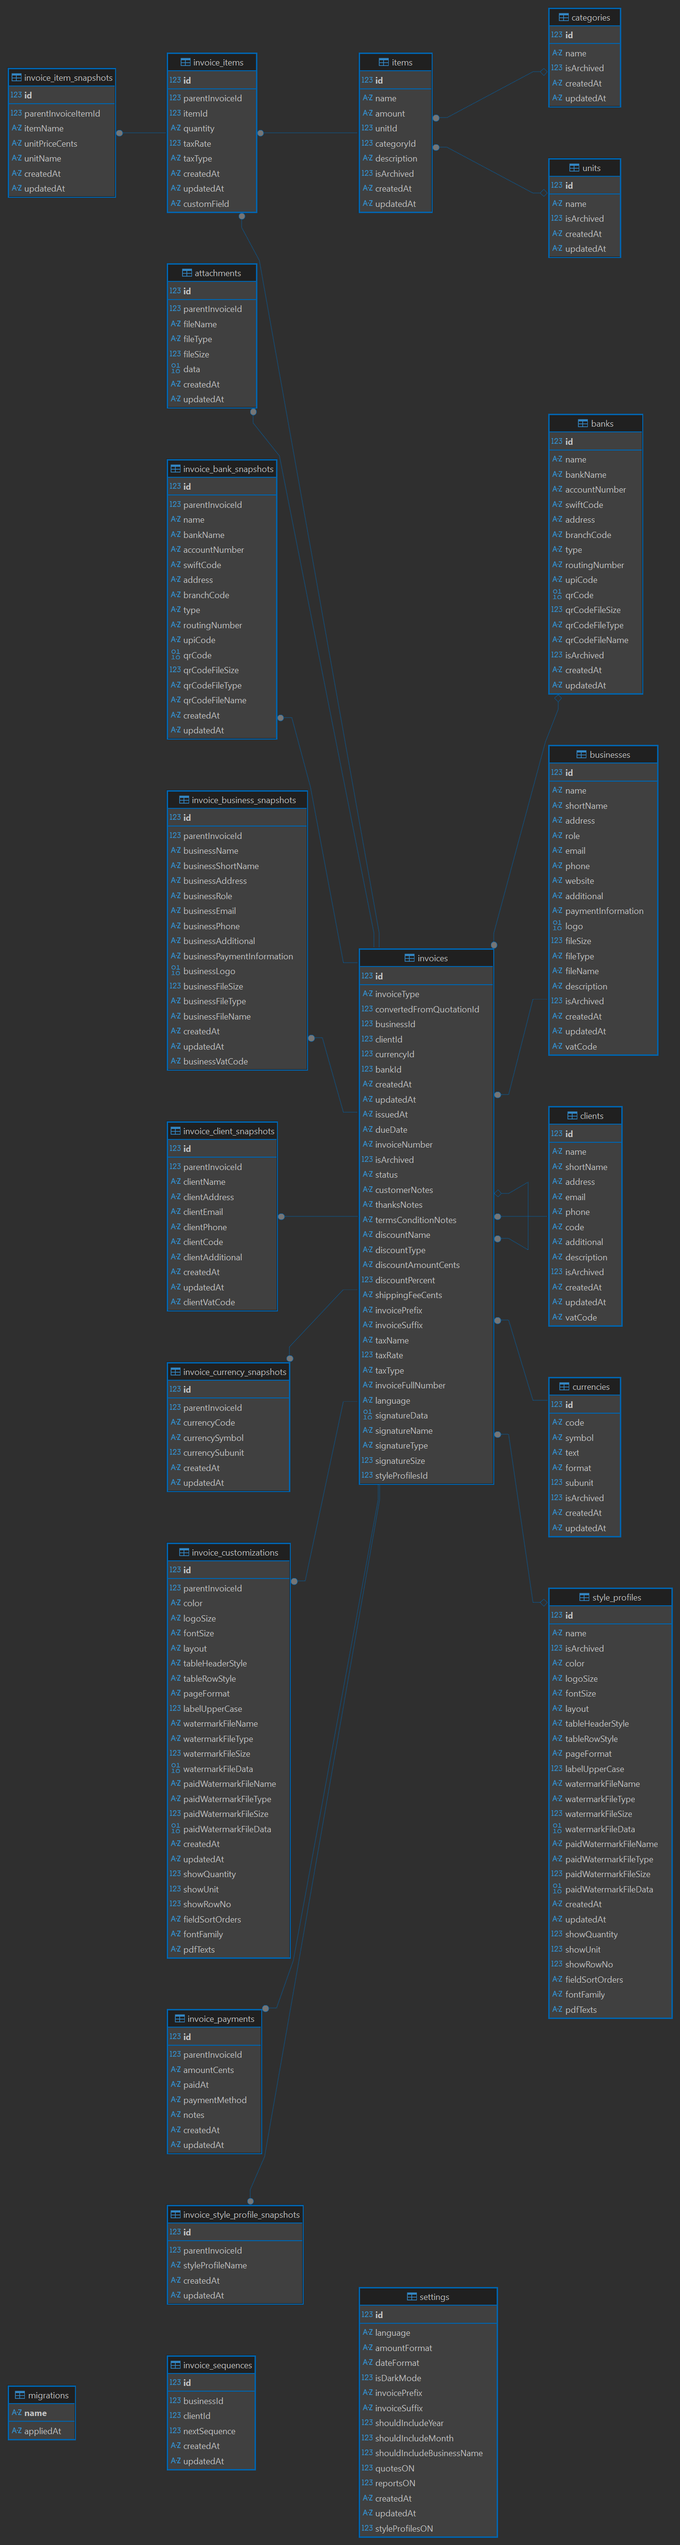
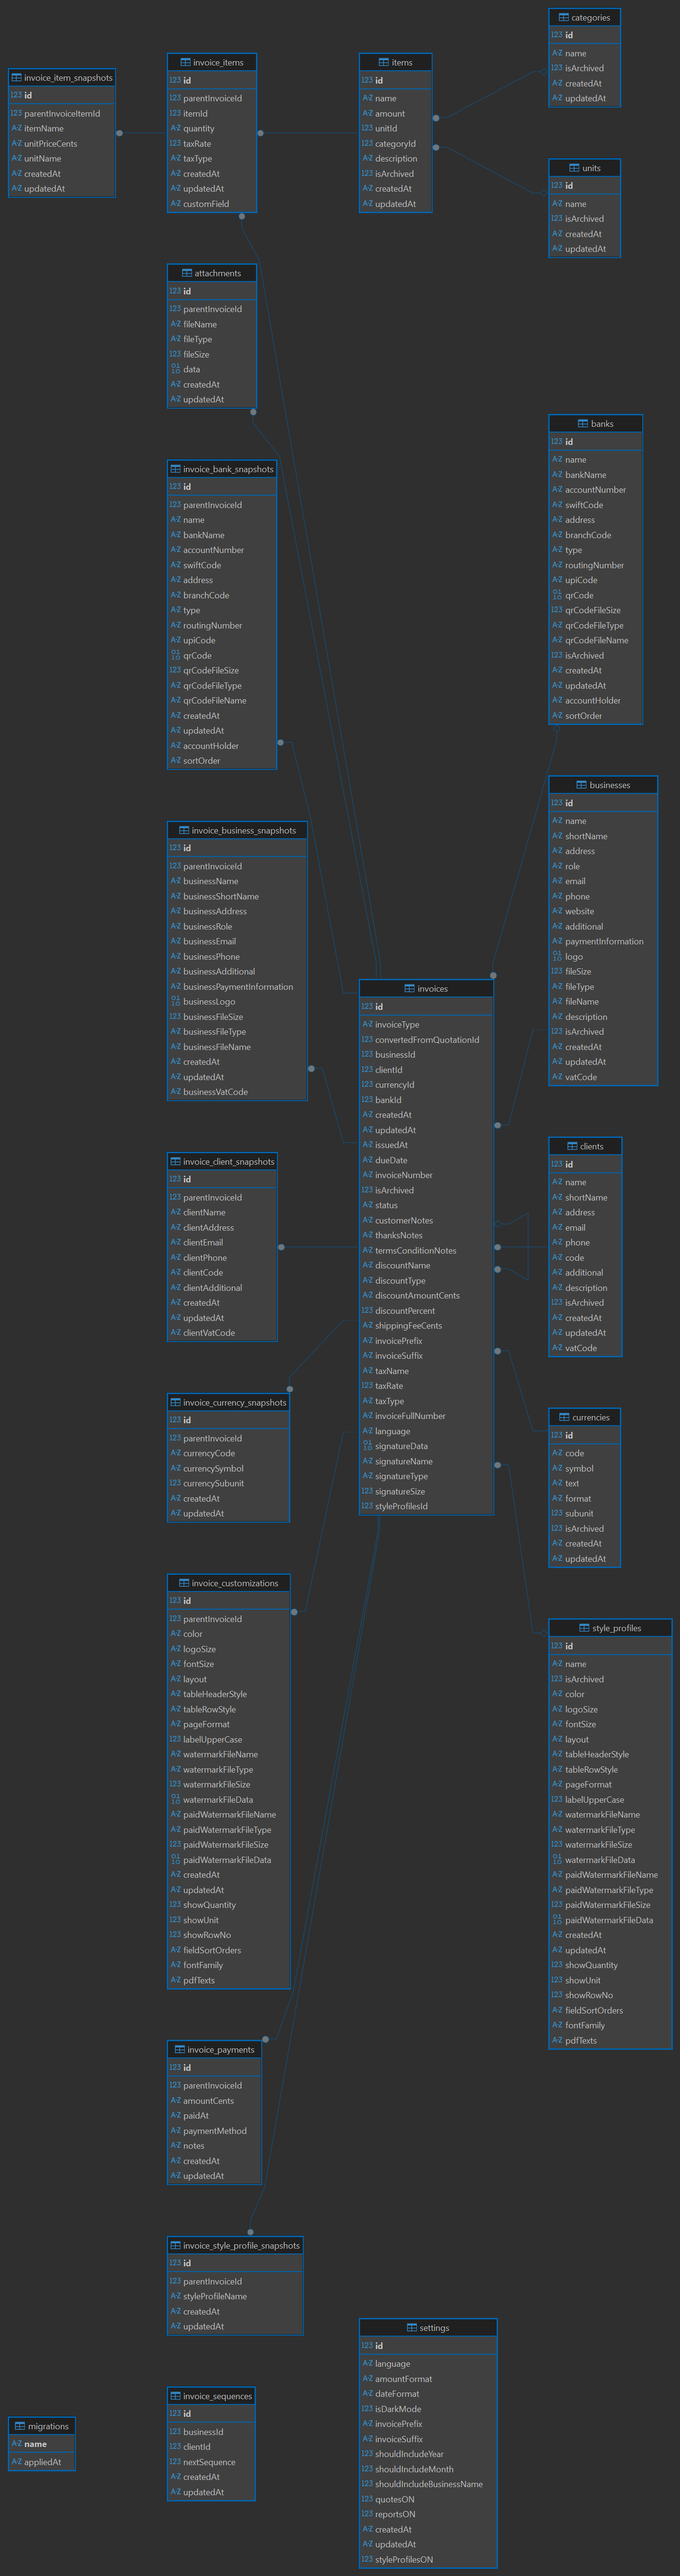
added new fields

diff --git a/src/renderer/pages/banks/Form.tsx b/src/renderer/pages/banks/Form.tsx
@@ -24,16 +24,20 @@ export const Form: FC<Props> = ({ handleChange = () => {}, bank }) => {
     branchCode: bank?.branchCode ?? '',
     type: bank?.type ?? '',
     routingNumber: bank?.routingNumber ?? '',
+    accountHolder: bank?.accountHolder ?? '',
+    sortOrder: bank?.sortOrder ?? '',
     upiCode: bank?.upiCode ?? '',
     qrCodeFileSize: bank?.qrCodeFileSize,
     qrCodeFileType: bank?.qrCodeFileType,
     qrCodeFileName: bank?.qrCodeFileName,
     isArchived: bank?.isArchived ?? false
   });
+
   const [errors, setErrors] = useState({
     name: false,
     accountNumber: false,
     swiftCode: false,
+    sortOrder: false,
     branchCode: false,
     routingNumber: false,
     upiCode: false
@@ -64,9 +68,11 @@ export const Form: FC<Props> = ({ handleChange = () => {}, bank }) => {
   const validateField = (field: keyof typeof errors, value: string) => {
     if (!validators.required(value) && field === 'name') {
       setErrors(e => ({ ...e, [field]: true }));
-    } else if (value !== '' && !validators.iban(value) && field === 'accountNumber') {
+    } else if (value !== '' && !validators.accountNumber(value) && field === 'accountNumber') {
       setErrors(e => ({ ...e, [field]: true }));
     } else if (value !== '' && !validators.swift(value) && field === 'swiftCode') {
+      setErrors(e => ({ ...e, [field]: true }));
+    } else if (value !== '' && !validators.sortCode(value) && field === 'sortOrder') {
       setErrors(e => ({ ...e, [field]: true }));
     } else if (value !== '' && !validators.branchCode(value) && field === 'branchCode') {
       setErrors(e => ({ ...e, [field]: true }));
@@ -91,6 +97,8 @@ export const Form: FC<Props> = ({ handleChange = () => {}, bank }) => {
       branchCode: bank?.branchCode ?? '',
       type: bank?.type ?? '',
       routingNumber: bank?.routingNumber ?? '',
+      accountHolder: bank?.accountHolder ?? '',
+      sortOrder: bank?.sortOrder ?? '',
       upiCode: bank?.upiCode ?? '',
       qrCodeFileSize: bank?.qrCodeFileSize,
       qrCodeFileType: bank?.qrCodeFileType,
@@ -109,6 +117,7 @@ export const Form: FC<Props> = ({ handleChange = () => {}, bank }) => {
       !errors.name &&
       !errors.accountNumber &&
       !errors.swiftCode &&
+      !errors.sortOrder &&
       !errors.branchCode &&
       !errors.routingNumber &&
       !errors.upiCode;
@@ -133,6 +142,16 @@ export const Form: FC<Props> = ({ handleChange = () => {}, bank }) => {
           onChange={e => {
             update('name', e.target.value);
             validateField('name', e.target.value);
+          }}
+        />
+      </Grid>
+      <Grid size={{ xs: 12, md: 6 }}>
+        <TextField
+          label={t('common.accountHolder')}
+          fullWidth
+          value={form.accountHolder}
+          onChange={e => {
+            update('accountHolder', e.target.value);
           }}
         />
       </Grid>
@@ -184,6 +203,19 @@ export const Form: FC<Props> = ({ handleChange = () => {}, bank }) => {
       </Grid>
       <Grid size={{ xs: 12, md: 6 }}>
         <TextField
+          label={t('common.sortOrder')}
+          fullWidth
+          value={form.sortOrder}
+          error={errors.sortOrder}
+          helperText={errors.sortOrder ? t('common.sortCodeInvalid') : ''}
+          onChange={e => {
+            update('sortOrder', e.target.value);
+            validateField('sortOrder', e.target.value);
+          }}
+        />
+      </Grid>
+      <Grid size={{ xs: 12, md: 6 }}>
+        <TextField
           label={t('common.address')}
           fullWidth
           value={form.address}
@@ -211,7 +243,7 @@ export const Form: FC<Props> = ({ handleChange = () => {}, bank }) => {
           fullWidth
           value={form.routingNumber}
           error={errors.routingNumber}
-          helperText={errors.routingNumber ? t('common.fieldRequiroutingNumberInvalidred') : ''}
+          helperText={errors.routingNumber ? t('common.routingNumberInvalid') : ''}
           onChange={e => {
             update('routingNumber', e.target.value);
             validateField('routingNumber', e.target.value);

diff --git a/src/renderer/pages/invoices/Preview/PaymentInfo.tsx b/src/renderer/pages/invoices/Preview/PaymentInfo.tsx
@@ -24,6 +24,16 @@ const PaymentInfoComponent: FC<Props> = ({ invoiceForm, qrCodeUrl, paymentInfoLa
       </Text>
       <View style={[PDF_STYLES.alignStart, PDF_STYLES.gap4, PDF_STYLES.row]}>
         <View style={[PDF_STYLES.alignStart, PDF_STYLES.gap4]}>
+          {invoiceForm?.invoiceBankSnapshot?.accountHolder && (
+            <Text
+              style={[
+                PDF_STYLES.businessText,
+                { fontSize: FONT_SIZES[invoiceForm?.invoiceCustomization?.fontSize ?? DEFAULT_FONT_SIZES].businessText }
+              ]}
+            >
+              {invoiceForm?.invoiceBankSnapshot?.accountHolder}
+            </Text>
+          )}
           {invoiceForm?.invoiceBankSnapshot?.bankName && (
             <Text
               style={[
@@ -34,14 +44,14 @@ const PaymentInfoComponent: FC<Props> = ({ invoiceForm, qrCodeUrl, paymentInfoLa
               {invoiceForm?.invoiceBankSnapshot?.bankName}
             </Text>
           )}
-          {invoiceForm?.invoiceBankSnapshot?.address && (
+          {invoiceForm?.invoiceBankSnapshot?.sortOrder && (
             <Text
               style={[
                 PDF_STYLES.businessText,
                 { fontSize: FONT_SIZES[invoiceForm?.invoiceCustomization?.fontSize ?? DEFAULT_FONT_SIZES].businessText }
               ]}
             >
-              {invoiceForm?.invoiceBankSnapshot?.address}
+              {invoiceForm?.invoiceBankSnapshot?.sortOrder}
             </Text>
           )}
           {invoiceForm?.invoiceBankSnapshot?.accountNumber && (
@@ -54,7 +64,7 @@ const PaymentInfoComponent: FC<Props> = ({ invoiceForm, qrCodeUrl, paymentInfoLa
               {invoiceForm?.invoiceBankSnapshot?.accountNumber}
             </Text>
           )}
-          {invoiceForm?.invoiceBankSnapshot?.branchCode && (
+          {invoiceForm?.invoiceBankSnapshot?.swiftCode && (
             <Text
               style={[
                 PDF_STYLES.businessText,
@@ -82,6 +92,16 @@ const PaymentInfoComponent: FC<Props> = ({ invoiceForm, qrCodeUrl, paymentInfoLa
               ]}
             >
               {invoiceForm?.invoiceBankSnapshot?.branchCode}
+            </Text>
+          )}
+          {invoiceForm?.invoiceBankSnapshot?.address && (
+            <Text
+              style={[
+                PDF_STYLES.businessText,
+                { fontSize: FONT_SIZES[invoiceForm?.invoiceCustomization?.fontSize ?? DEFAULT_FONT_SIZES].businessText }
+              ]}
+            >
+              {invoiceForm?.invoiceBankSnapshot?.address}
             </Text>
           )}
           {invoiceForm?.invoiceBankSnapshot?.upiCode && (

diff --git a/src/renderer/pages/banks/index.tsx b/src/renderer/pages/banks/index.tsx
@@ -26,6 +26,8 @@ export const BanksPage: FC = () => {
     'address',
     'branchCode',
     'routingNumber',
+    'accountHolder',
+    'sortOrder',
     'type',
     'upiCode',
     'qrCodeFileSize',
@@ -33,6 +35,7 @@ export const BanksPage: FC = () => {
     'qrCodeFileName',
     'isArchived'
   ];
+
   const excelFileName = 'banks';
   const excelTemplateData: Rows = [
     {
@@ -45,7 +48,9 @@ export const BanksPage: FC = () => {
       routingNumber: null,
       type: 'Business Current Account',
       upiCode: null,
-      isArchived: false
+      isArchived: false,
+      accountHolder: 'Tom Hanks',
+      sortOrder: null
     },
     {
       name: 'Stripe Payout Account',
@@ -57,7 +62,9 @@ export const BanksPage: FC = () => {
       routingNumber: '026009593',
       type: 'Checking',
       upiCode: null,
-      isArchived: false
+      isArchived: false,
+      accountHolder: 'Tom Hanks',
+      sortOrder: null
     },
     {
       name: 'Personal UPI Wallet',
@@ -69,7 +76,9 @@ export const BanksPage: FC = () => {
       routingNumber: null,
       type: 'Savings Account',
       upiCode: 'rahul.verma@okhdfcbank',
-      isArchived: false
+      isArchived: false,
+      accountHolder: 'Tom Hanks',
+      sortOrder: null
     }
   ];
   const filters: Filter[] = [

diff --git a/src/backend/shared/migrations/20260220-17-banks-fields.ts b/src/backend/shared/migrations/20260220-17-banks-fields.ts
@@ -1,0 +1,38 @@
+import type { DatabaseAdapter } from '../types/DatabaseAdapter';
+import { getTableColumns } from '../utils/dbHelper';
+import { mapDatabaseError } from '../utils/errorFunctions';
+
+export const up = async (db: DatabaseAdapter) => {
+  try {
+    const cols = await getTableColumns(db, 'banks');
+    const colInfo = cols.find(c => c.name === 'accountHolder');
+    if (colInfo) return;
+
+    await db.run(
+      `
+        ALTER TABLE banks
+        ADD COLUMN "accountHolder" TEXT
+      `
+    );
+    await db.run(
+      `
+        ALTER TABLE banks
+        ADD COLUMN "sortOrder" TEXT 
+      `
+    );
+    await db.run(
+      `
+        ALTER TABLE invoice_bank_snapshots
+        ADD COLUMN "accountHolder" TEXT
+      `
+    );
+    await db.run(
+      `
+        ALTER TABLE invoice_bank_snapshots
+        ADD COLUMN "sortOrder" TEXT 
+      `
+    );
+  } catch (error) {
+    return { success: false, ...mapDatabaseError(error, db.type) };
+  }
+};

diff --git a/src/renderer/shared/utils/typeGuardFunctions.ts b/src/renderer/shared/utils/typeGuardFunctions.ts
@@ -148,6 +148,14 @@ export const isBankFromData = (data: unknown): data is BankFromData => {
     if (typeof d.routingNumber !== 'string') return false;
   }
 
+  if (d.sortOrder !== undefined && d.sortOrder !== null && d.sortOrder !== '') {
+    if (typeof d.sortOrder !== 'string') return false;
+  }
+
+  if (d.accountHolder !== undefined && d.accountHolder !== null && d.accountHolder !== '') {
+    if (typeof d.accountHolder !== 'string') return false;
+  }
+
   if (d.type !== undefined && d.type !== null && d.type !== '') {
     if (typeof d.type !== 'string') return false;
   }
@@ -520,6 +528,8 @@ export const isInvoiceBankSnapshotFromData = (data: unknown): data is InvoiceBus
     'branchCode',
     'type',
     'routingNumber',
+    'sortOrder',
+    'accountHolder',
     'upiCode',
     'qrCodeFileType',
     'qrCodeFileName'

diff --git a/src/renderer/shared/utils/validatorFunctions.ts b/src/renderer/shared/utils/validatorFunctions.ts
@@ -2,7 +2,20 @@ export const validators = {
   email: (v: string) => /^[^\s@]+@[^\s@]+\.[^\s@]+$/.test(v),
   phone: (v: string) => /^\+[1-9]\d{6,14}$/.test(v),
   required: (v: string) => v.trim() !== '',
-  iban: (v: string) => /^[A-Z]{2}[0-9A-Z]{6,32}$/.test(v.replace(/\s+/g, '').toUpperCase()),
+  sortCode: (v: string) => {
+    if (!v) return false;
+
+    const cleaned = v.replace(/[\s-]/g, '');
+
+    return /^\d{6}$/.test(cleaned);
+  },
+  accountNumber: (v: string) => {
+    if (!v) return false;
+
+    const cleaned = v.replace(/\s+/g, '');
+
+    return /^[A-Z0-9\\-]{4,34}$/i.test(cleaned);
+  },
   swift: (v: string) => /^[A-Z0-9]{8}([A-Z0-9]{3})?$/.test(v.toUpperCase()),
   routingNumber: (v: string) => /^\d{9}$/.test(v),
   branchCode: (v: string) => v === '' || /^\d{3,6}$/.test(v),

diff --git a/src/renderer/shared/types/bank.ts b/src/renderer/shared/types/bank.ts
@@ -8,6 +8,8 @@ export interface BankMeta {
   branchCode?: string;
   type?: string;
   routingNumber?: string;
+  accountHolder?: string;
+  sortOrder?: string;
   upiCode?: string;
   qrCodeFileSize?: number;
   qrCodeFileType?: string;
@@ -36,6 +38,8 @@ export interface BankAddMeta {
   branchCode?: string;
   type?: string;
   routingNumber?: string;
+  accountHolder?: string;
+  sortOrder?: string;
   upiCode?: string;
   qrCodeFileSize?: number;
   qrCodeFileType?: string;
@@ -69,6 +73,8 @@ export interface BankFromData {
   branchCode?: string;
   type?: string;
   routingNumber?: string;
+  accountHolder?: string;
+  sortOrder?: string;
   upiCode?: string;
   qrCode?: Uint8Array;
   qrCodeFileSize?: number;

diff --git a/src/backend/shared/services/invoices.ts b/src/backend/shared/services/invoices.ts
@@ -55,6 +55,8 @@ const invoiceBankSnapshotsFields: (keyof InvoiceBankSnapshots)[] = [
   'branchCode',
   'type',
   'routingNumber',
+  'accountHolder',
+  'sortOrder',
   'upiCode',
   'qrCode',
   'qrCodeFileSize',
@@ -926,6 +928,8 @@ export const duplicateInvoice = async (
       'branchCode',
       'type',
       'routingNumber',
+      'accountHolder',
+      'sortOrder',
       'upiCode',
       'qrCode',
       'qrCodeFileSize',

diff --git a/src/renderer/pages/invoices/Form/index.tsx b/src/renderer/pages/invoices/Form/index.tsx
@@ -191,6 +191,8 @@ const InvoiceFormComponent: FC<Props> = ({
             branchCode: data.branchCode,
             type: data.type,
             routingNumber: data.routingNumber,
+            sortOrder: data.sortOrder,
+            accountHolder: data.accountHolder,
             qrCode: data.qrCode ?? undefined,
             qrCodeFileSize: data.qrCodeFileSize,
             qrCodeFileType: data.qrCodeFileType,

diff --git a/src/renderer/shared/types/invoice.ts b/src/renderer/shared/types/invoice.ts
@@ -122,6 +122,8 @@ export interface InvoiceBankSnapshotsMeta {
   branchCode?: string;
   type?: string;
   routingNumber?: string;
+  accountHolder?: string;
+  sortOrder?: string;
   upiCode?: string;
   qrCodeFileSize?: number;
   qrCodeFileType?: string;

diff --git a/src/backend/shared/types/invoice.ts b/src/backend/shared/types/invoice.ts
@@ -60,6 +60,8 @@ export interface InvoiceBankSnapshots {
   branchCode?: string;
   type?: string;
   routingNumber?: string;
+  accountHolder?: string;
+  sortOrder?: string;
   upiCode?: string;
   qrCodeFileSize?: number;
   qrCodeFileType?: string;

diff --git a/src/backend/shared/types/bank.ts b/src/backend/shared/types/bank.ts
@@ -8,6 +8,8 @@ export interface Bank {
   branchCode?: string;
   type?: string;
   routingNumber?: string;
+  accountHolder?: string;
+  sortOrder?: string;
   upiCode?: string;
   qrCode?: Uint8Array;
   qrCodeFileSize?: number;
